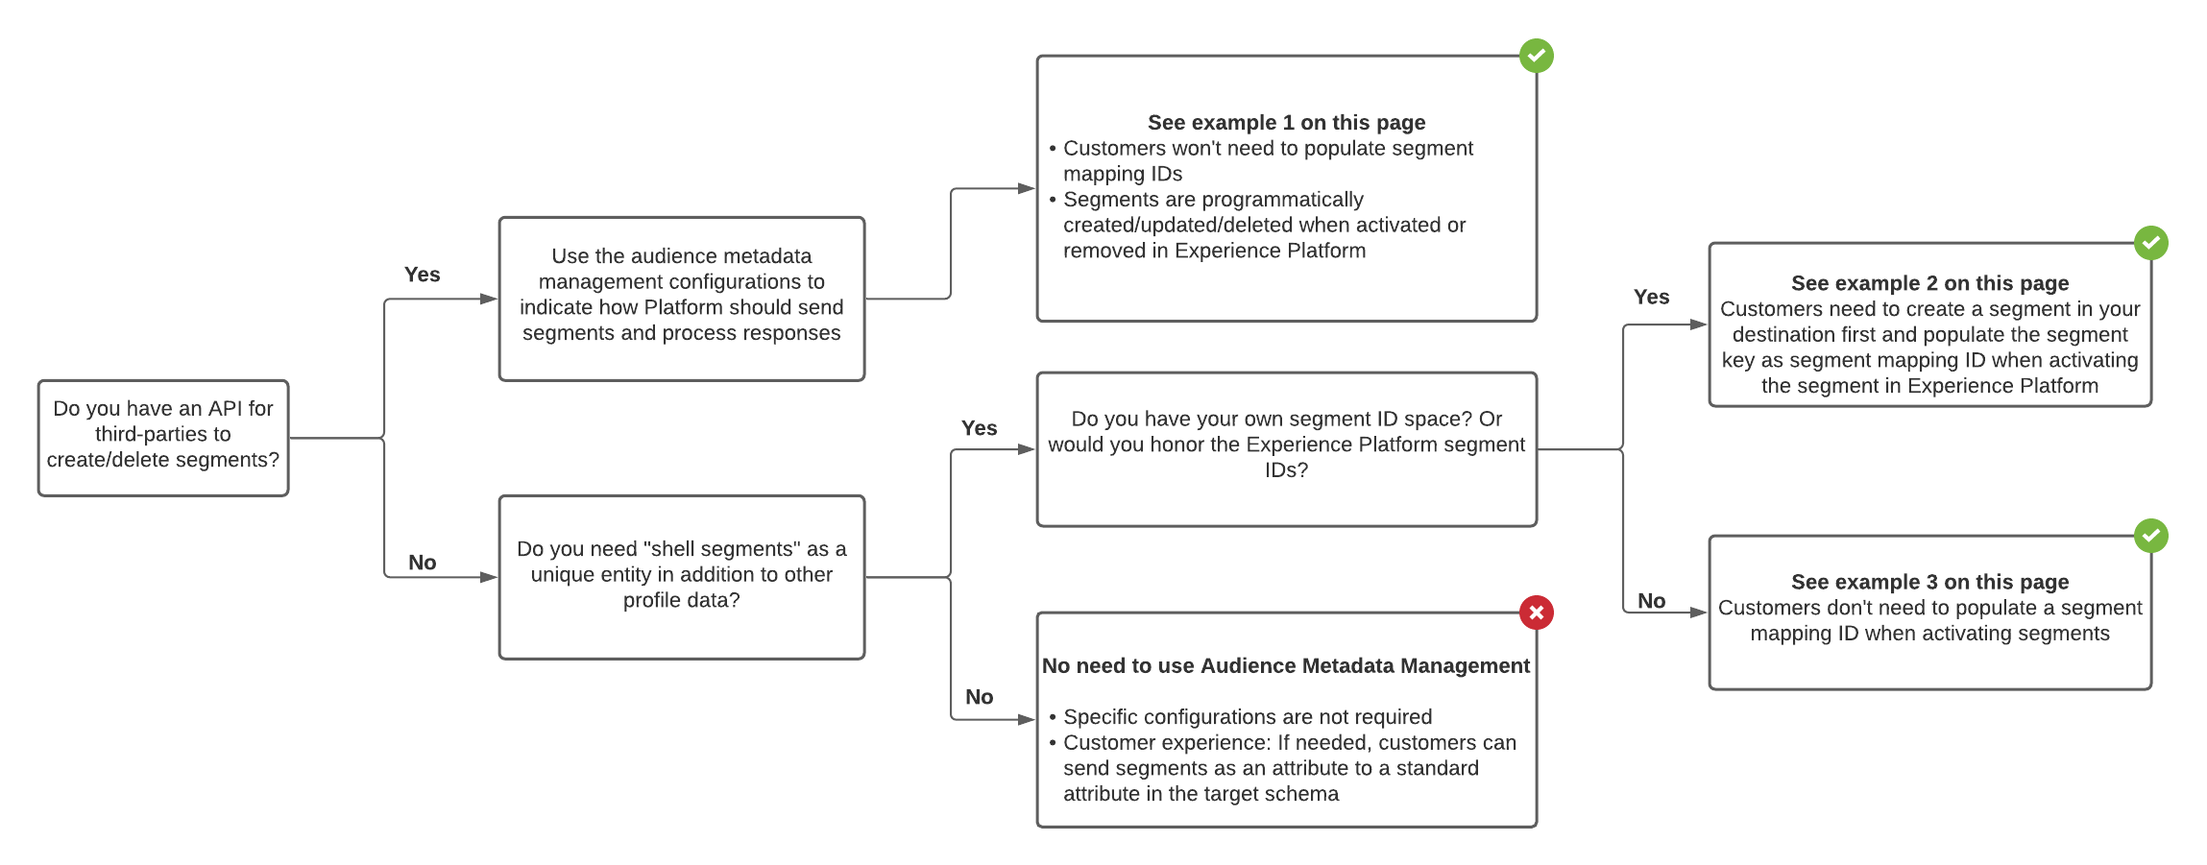
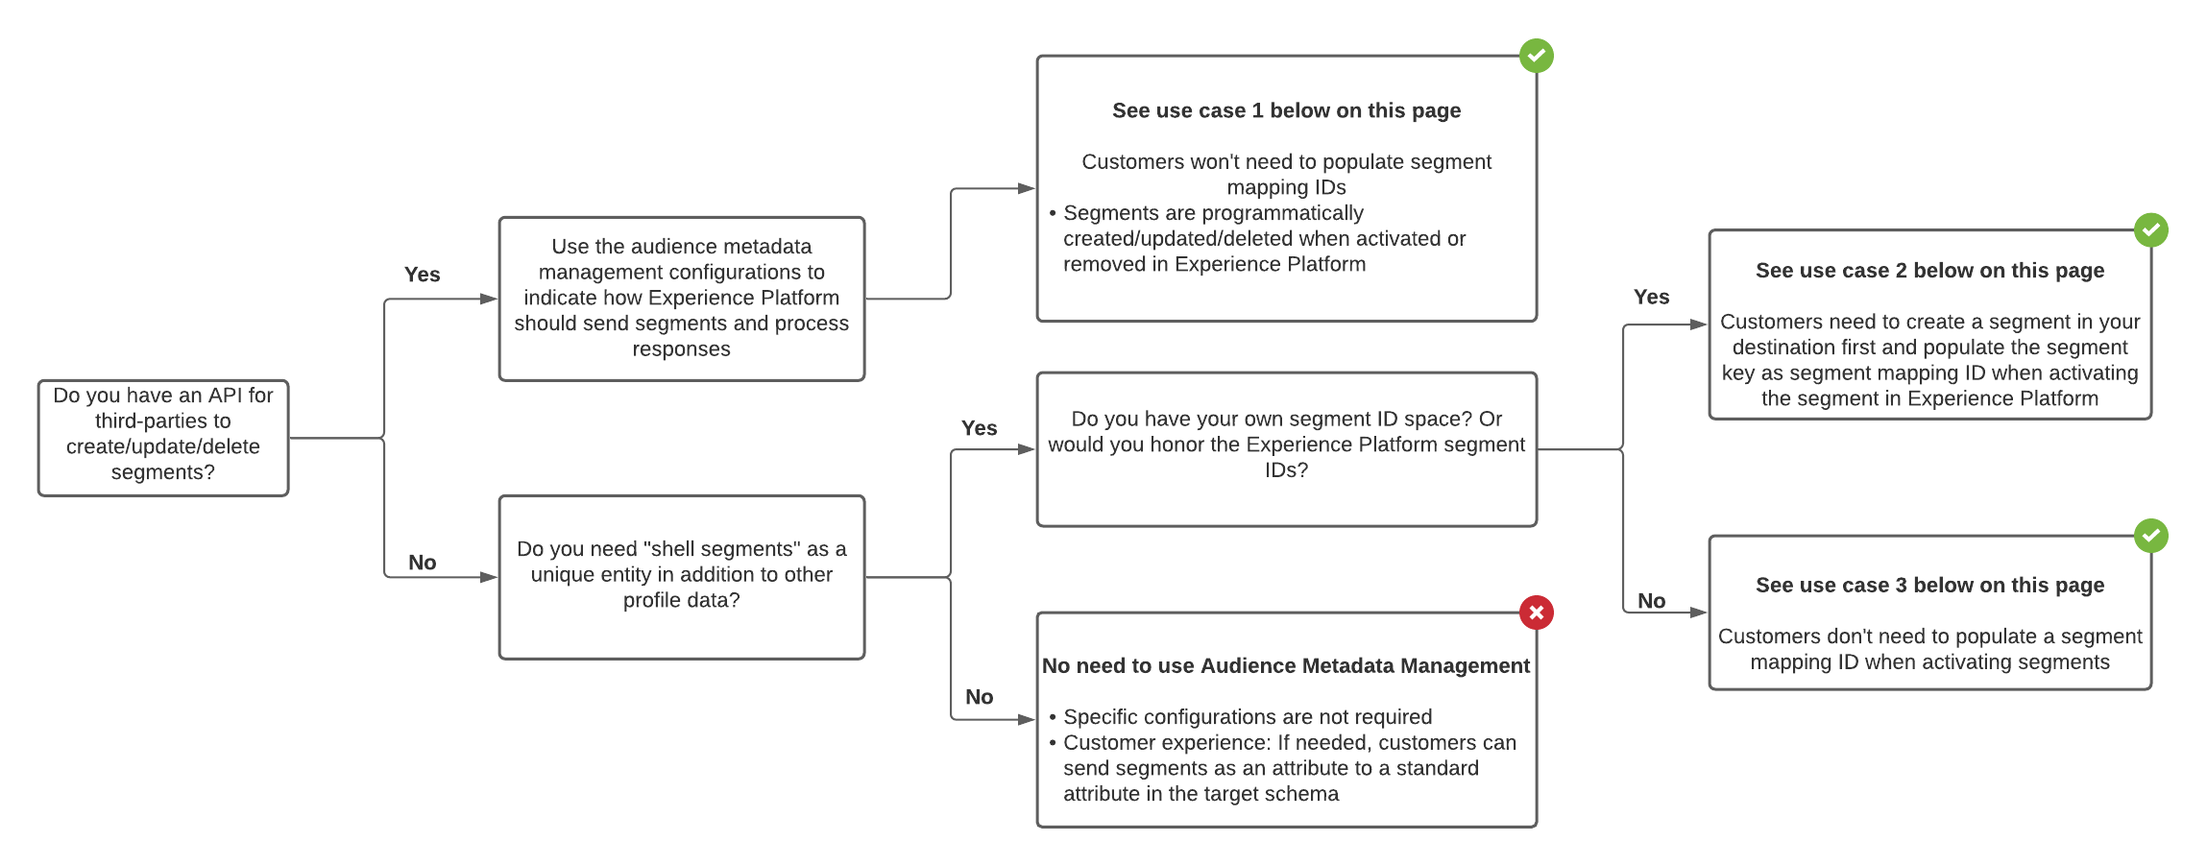
Several updates in collaboration with Engineering

diff --git a/help/audience-metadata-management.md b/help/audience-metadata-management.md
@@ -12,48 +12,170 @@ exl-id: 63ed9a03-eb4d-46c6-85e9-6c1d84acdbad
 
 **API endpoint**: `platform.adobe.io/data/core/activation/authoring/v1/audience-templates` 
 
-Use audience metadata templates to programmatically create, update, or delete audiences (segments) in your destination. Based on the configuration of your API, you can use the audience metadata endpoint to create a template. After you define and test the template, it will be used by Adobe to structure the API calls to your destination.
+Use audience metadata templates to programmatically create, update, or delete audiences in your destination. Adobe provides an extensible audience metadata template, which you can configure based on the specifications of your marketing API. After you define, test, and submit the template, it will be used by Adobe to structure the API calls to your destination.
 
 ## When to use the audience metadata management endpoint {#when-to-use}
 
-Depending on your configuration, you may or may not need to use the audience metadata management API as you configure your destination. Use the decision tree diagram below to understand when to use the audience metadata endpoint.
+Depending on your API configuration, you may or may not need to use the audience metadata management endpoint as you configure your destination in Experience Platform. Use the decision tree diagram below to understand when to use the audience metadata endpoint and how to configure an audience metadata template for your destination.
 
 ![Whiteboard diagram](/help/assets/audience-metadata-decision-tree.png)
 
 ## Use cases supported by audience metadata management {#use-cases}
 
-With audience metadata support in Destination SDK, when you configure your Experience Platform destination, you can give Experience Platform customers one of several options when they map and activate segments to your destination:
+With audience metadata support in Destination SDK, when you configure your Experience Platform destination, you can give Platform users one of several options when they map and activate segments to your destination:
 
+<!--
 1. Require users to manually input segment mapping IDs in a destination instance.
 2. Do not require users to input segment mapping IDs but I will include a template to indicate how my segment mapping ID will be returned in the audience creation API.
 3. Do not require users to input segment mapping IDs. Experience Platform will pass in the segment ID generated by AEP as the segment ID in the destination system upon audience creation.
 4. Do not require users to input segment mapping IDs. Experience Platform will pass in the segment name as the segment ID in the destination system upon audience creation.
+-->
 
+### Use case 1 - You have a 3rd party API and users don't need to input mapping IDs
 
+If you have an API endpoint to create/update/delete shell segments, you can use audience metadata templates to configure Destination SDK to match the specs of your segment create/update/delete endpoint. Experience Platform can programmatically create/update/delete segments and synchronize metadata back to Experience Platform.
 
-### Use case 1 - require users to manually input mapping ID 
+Experience Platform users don't need to manually fill in the segment mapping ID field in the activation workflow to your destination.
 
-If "shell segments" and other metadata needs to be created by partners/customers manually, then customers have to manually fill in the "segment mapping ID" field in the activation workflow to sync the segment metadata between the two systems. 
+### Use case 2 - Users need to create a segment in your destination first and are required to manually input mapping ID
 
-![Input mapping ID](/help/assets/input-mapping-id.png) 
+If "shell segments" and other metadata need to be created by partners or users manually, then users must manually fill in the segment mapping ID field in the activation workflow to sync the segment metadata between your destination and Experience Platform.
 
-### Use case 2 - do not require users to manually input mapping ID
+![Input mapping ID](/help/assets/input-mapping-id.png)
 
-If the shell segment can be created programmatically (pre-requisite: you have an API endpoint to create/update/delete shell segments), you can configure Destination SDK to match the specs of your segment create/update/delete endpoint, and Experience Platform can programmatically create/update/delete segments and synchronize metadata back to Experience Platform.
+### Use case 3 - Your destination honors the Experience Platform segment ID, users don't need to manually input mapping ID  
 
-### Use case 3 - your destination honors the Experience Platform segment ID 
-
-If your destination system honors the Experience Platform segment ID space, you must configure a template. Customers do not have to populate "segment mapping ID" when activating a segment.
+If your destination system honors the Experience Platform segment ID space, you must configure a template. Users do not have to populate segment mapping ID when activating a segment.
 
 ## Generic and extensible audience template {#generic-and-extensible}
 
-To satisfy the use cases listed above, Adobe provides you with a generic template, that can be customized to adjust to your API specifications.
+To support the use cases listed above, Adobe provides you with a generic template that can be customized to adjust to your API specifications.
 
-Select the Generic option when you [create a new audience template](/help/audience-metadata-management.md#create) if your API supports:
+Select the `Generic` option when you [create a new audience template](/help/audience-metadata-management.md#create) if your API supports:
 
 * The HTTP methods: POST, GET, PUT, DELETE, PATCH
-* The authentication types OAuth 1, OAuth 2 with Bearer Token, OAuth 2 with client ID and client secret
+* The authentication types: OAuth 1, OAuth 2 with refresh token, OAuth 2 with bearer token
 * The functions: create audience, update audience, get audience, delete audience, validate credentials 
+
+
+## Template example
+
+This section includes an example of a generic audience template, for your reference, along with descriptions of the main sections of the template.
+
+```
+
+        "instanceId": "a54b7a97-1a3b-40cf-8ae5-4dd635cd9a20",
+        "createdDate": "2021-04-13T19:31:27.201228Z",
+        "lastModifiedDate": "2021-04-21T15:30:16.131235Z",
+        "audience": {
+            "context": "Generic",
+            "name": "{{segment.name}}",
+            "description": "{{segment.description}}",
+            "account": "{{targetConnection.params.accountId}}",
+            "externalAudienceId": "{{segment.alias}}",
+            "metadata": {
+                "customer_file_source": "{{segment.metadata.customer_file_source}}"
+            },
+            "imsOrgId": "{{userContext.imsOrgId}}"
+        },
+        "credential": {
+            "token": "{{baseConnection.auth.params.accessToken}}",
+            "authType": "OAUTH2"
+        },
+        "metadataTemplate": {
+            "create": {
+                "uri": "/{{audience.account}}/customaudiences?fields=name,description,account_id&subtype=CUSTOM",
+                "method": "POST",
+                "headers": {
+                    "Content-Type": "application/x-www-form-urlencoded"
+                },
+                "params": {
+                    "name": "{{audience.name}}",
+                    "description": "{{audience.description}}",
+                    "access_token": "{{credential.token}}",
+                    "customer_file_source": "{{audience.metadata.customer_file_source}}"
+                },
+                "schemaMap": {
+                    "externalAudienceId": "{{response.id}}"
+                },
+                "errorSchemaMap": {
+                    "message": "error.message"
+                }
+            },
+            "update": {
+                "uri": "/{{audience.externalAudienceId}}",
+                "method": "POST",
+                "headers": {
+                    "Content-Type": "application/x-www-form-urlencoded"
+                },
+                "params": {
+                    "name": "{{audience.name}}",
+                    "fields": "name,description,account_id",
+                    "description": "{{audience.description}}",
+                    "access_token": "{{credential.token}}",
+                    "customAudienceId": "{{audience.externalAudienceId}}",
+                    "customer_file_source": "{{audience.metadata.customer_file_source}}"
+                },
+                "schemaMap": {
+                    "externalAudienceId": "{{response.id}}"
+                },
+                "errorSchemaMap": {
+                    "message": "error.message"
+                }
+            },
+            "delete": {
+                "uri": "/{{audience.externalAudienceId}}",
+                "method": "DELETE",
+                "headers": {
+                    "Content-Type": "application/x-www-form-urlencoded"
+                },
+                "params": {
+                    "fields": "name,description,account_id",
+                    "access_token": "{{credential.token}}",
+                    "customAudienceId": "{{audience.externalAudienceId}}"
+                },
+                "schemaMap": {
+                    "externalAudienceId": "{{response.id}}"
+                },
+                "errorSchemaMap": {
+                    "message": "error.message"
+                }
+            },
+            "validate": {
+                "uri": "/me/permissions?access_token={{credential.token}}",
+                "method": "GET",
+                "headers": {
+                    "Content-Type": "application/x-www-form-urlencoded"
+                },
+                "schemaMap": {
+                    "Id": "{{response.id}}"
+                },
+                "errorSchemaMap": {
+                    "message": "error.message"
+                }
+            },
+            "host": "https://api.moviestar.com/v10.0",
+            "name": "Moviestar fictional destination template"
+        },
+        "validations": [
+            {
+                "field": "{{audience.account}}",
+                "regex": "^moviestar_[0-9]+$"
+            }
+        ]
+    },
+
+```
+
+Template section | Description |
+---------|----------|
+``audience`` | Includes all metadata from Experience Platform needed to create an audience in the destination platform. |
+``credential`` | Specifies the authorization type for your destination. |
+``metadataTemplate`` | Includes basic information for HTTP calls to your destination, to create, update, validate, and delete audiences. |
+``validations`` | Runs validations for e.g. account number before making a call to the partner API.|
+
+Descriptions of all parameters in the template are further below in this page. 
+
 
 ## Getting started with audience templates API operations
 
@@ -193,14 +315,14 @@ curl -X POST https://platform.adobe.io/data/core/ups/export/jobs \
 
 | Property | Type | Description |
 | -------- | ----------- | ----------- |
-| `audience.context` | String | Use "context": "GENERIC" if your API satisfies the requirements in the [generic and extensible](/help/audience-metadata-management.md#generic-and-extensible) section. |
+| `audience.context` | String | Use "context": "Generic" if your API satisfies the requirements in the [generic and extensible](/help/audience-metadata-management.md#generic-and-extensible) section. |
 | `audience.description` | String | Use `"{{segment.description}}"` to pass the description of the Experience Platform segment to your API endpoint. | 
 | `audience.name` | String | Use `"{{segment.name}}"` to pass the name of the Experience Platform segment to your API endpoint. | 
 | `audience.sid` | String | Use `"{{segment.sid}}"` to pass the ID of the Experience Platform segment to your API endpoint. | 
 | `audience.account` | String | Use `"{{audience.account}}"` to pass the user's account ID to your API endpoint.| 
 | `audience.accountType` | String | If your destination supports several types of customer accounts, you can specify that here. | 
-| `audience.externalAudienceId` | String | The segment or audience alias in your destination. | 
-| `audience.imsOrgId` | String | The customer's Organization ID.  | 
+| `audience.externalAudienceId` | String | The segment or audience alias in your destination. Use `{{segment.alias}}`. | 
+| `audience.imsOrgId` | String | The customer's Organization ID. Use `{{userContext.imsOrgId}}`.  | 
 | `audience.metadata.additionalProp1` | String | You can define any number of additional fields, specific to your destination. <br> For example, based on their [Marketing API documentation](https://developers.facebook.com/docs/marketing-api/audiences/guides/custom-audiences/), Facebook would add the field `"customer_file_source": "{{segment.metadata.customer_file_source}}"` to their destination configuration. | 
 | `credential.clientId` | String |  |
 | `credential.clientSecret` | String | | 
@@ -211,38 +333,38 @@ curl -X POST https://platform.adobe.io/data/core/ups/export/jobs \
 | `credential.clientCustomerId` | String | | 
 | `credential.authType` | String | | 
 | `credential.metadata.additionalProp1` | String | | 
-| `metadataTemplate.name` | String | The name of the audience metadata template for your destination. |
+| `metadataTemplate.name` | String | The name of the audience metadata template for your destination. This name will appear in any partner-specific error message |
 | `metadataTemplate.host` | String | The URL of the API on your side. Two industry examples are: `https://ads-api.twitter.com/` and `https://graph.facebook.com/v10.0`. | 
-| `metadataTemplate.create.uri` | String | The endpoint of your API, which is used for creating audiences/segments in your platform. | 
-| `metadataTemplate.create.method` | String | The method used on your endpoint to programmatically create the segment/audience in your destination. Examples: `POST`, `PUT` | 
-| `metadataTemplate.create.headers.additionalProp1` | String | Specifies any headers that should be added to the call to your API. For example, `"Content-Type": "application/x-www-form-urlencoded"` | 
-| `metadataTemplate.create.params.additionalProp1` | String | Specifies any parameters that should be added to the body of the call to your API. | 
+| `metadataTemplate.create.uri` | String | The endpoint of your API, which is used for creating audiences/segments in your platform. For example: `/v2/audiences/{{audience.id}}` | 
+| `metadataTemplate.create.method` | String | The method used on your endpoint to programmatically create the segment/audience in your destination. For example: `POST`, `PUT` | 
+| `metadataTemplate.create.headers.additionalProp1` | String | Specifies any HTTP headers that should be added to the call to your API. For example, `"Content-Type": "application/x-www-form-urlencoded"` | 
+| `metadataTemplate.create.params.additionalProp1` | String | Specifies any query parameters that should be appended to the call to your API. | 
 | `metadataTemplate.create.body` | String | Specifies the content of the message body that should be sent to your API. |
-| `metadataTemplate.create.schemaMap.additionalProp1` | String |  | 
-| `metadataTemplate.create.errorSchemaMap.additionalProp1` | String | | 
-| `metadataTemplate.update.uri` | String | | 
-| `metadataTemplate.update.method` | String | The method used on your endpoint to programmatically update the segment/audience in your destination. | 
-| `metadataTemplate.update.headers.additionalProp1` | String | | 
-| `metadataTemplate.update.params.additionalProp1` | String | | 
-| `metadataTemplate.update.body` | String | | 
-| `metadataTemplate.update.schemaMap.additionalProp1` | String | | 
-| `metadataTemplate.update.errorSchemaMap.additionalProp1` | String | | 
-| `metadataTemplate.delete.uri` | String | | 
-| `metadataTemplate.delete.method` | String | The method used on your endpoint to programmatically delete the segment/audience in your destination. | 
+| `metadataTemplate.create.schemaMap.additionalProp1` | String | Returns the audience ID from your destination.  | 
+| `metadataTemplate.create.errorSchemaMap.additionalProp1` | String | Parses any error messages returned on API call responses from your destination. These error messages will be surfaced to users in the Experience Platform user interface. | 
+| `metadataTemplate.update.uri` | String | The endpoint of your API, which is used for updating audiences/segments in your platform. For example: `/v2/audiences/{{audience.id}}` | 
+| `metadataTemplate.update.method` | String | The method used on your endpoint to programmatically update the segment/audience in your destination. For example: `POST`, `PUT` | 
+| `metadataTemplate.update.headers.additionalProp1` | String | Specifies any HTTP headers that should be added to the call to your API. For example, `"Content-Type": "application/x-www-form-urlencoded"`  | 
+| `metadataTemplate.update.params.additionalProp1` | String | Specifies any query parameters that should be appended to the call to your API. | 
+| `metadataTemplate.update.body` | String | Specifies the content of the message body that should be sent to your API. | 
+| `metadataTemplate.update.schemaMap.additionalProp1` | String | *Optional for update operations.* Returns the audience ID from your destination. | 
+| `metadataTemplate.update.errorSchemaMap.additionalProp1` | String | Parses any error messages returned on API call responses from your destination. These error messages will be surfaced to users in the Experience Platform user interface. | 
+| `metadataTemplate.delete.uri` | String | The endpoint of your API, which is used for removing audiences/segments in your platform. For example: `/v2/audiences/{{audience.id}}` | 
+| `metadataTemplate.delete.method` | String | The method used on your endpoint to programmatically delete the segment/audience in your destination. For example: `DELETE` | 
 | `metadataTemplate.delete.headers.additionalProp1` | String | | 
 | `metadataTemplate.delete.params.additionalProp1` | String | | 
 | `metadataTemplate.delete.body` | String | | 
 | `metadataTemplate.delete.schemaMap.additionalProp1` | String | | 
 | `metadataTemplate.delete.errorSchemaMap.additionalProp1` | String | | 
 | `metadataTemplate.validate.uri` | String | | 
-| `metadataTemplate.validate.method` | String | The method used on your endpoint to programmatically validate the segment/audience in your destination. | 
+| `metadataTemplate.validate.method` | String | The method used on your endpoint to programmatically validate the segment/audience in your destination. For example: `GET` | 
 | `metadataTemplate.validate.headers.additionalProp1` | String | | 
 | `metadataTemplate.validate.params.additionalProp1` | String | | 
 | `metadataTemplate.validate.body` | String | | 
 | `metadataTemplate.validate.schemaMap.additionalProp1` | String | | 
 | `metadataTemplate.validate.errorSchemaMap.additionalProp1` | String | | 
-| `validations.field` | String | | 
-| `validations.regex` | String | | 
+| `validations.field` | String | Indicates if validations should be run for any fields before API calls are made to your destination. For example, you can use `{{validations.accountId}}` to validate the user's account ID. | 
+| `validations.regex` | String | Indicates how the field should be structured in order for the validation to pass.  | 
 
 
 
@@ -263,7 +385,7 @@ PUT /authoring/v1/audience-templates/{INSTANCE_ID}
 
 | Parameter | Description |
 | -------- | ----------- |
-| {INSTANCE_ID} | The ID of the audience metadata template you want to update. |
+| {INSTANCE_ID} | The ID of the audience metadata template that you want to update. |
 
 **Request**
 
@@ -577,7 +699,7 @@ A successful response returns HTTP status 200 with detailed information about th
                 "message": "errors[0].message"
             }
         },
-        "host": "https://ads-api.twitter.com/8"
+        "host": "https://ads-api.moviestar.com/8"
     }
 }
 ```
@@ -617,99 +739,6 @@ A successful response returns HTTP status 204 with the following message:
   "status": true,
   "message": ""
 }
-```
-
-## Template examples
-
-This section includes some example templates, for your reference. They all use a fictional destination, called Moviestar.
-
-```
-
-{
-  "name": "Moviestar",
-  "host": "https://api.moviestar.com",
-  "get": {
-    "uri": "/v2/segments/{{audience.id}}",
-    "method": "GET",
-    "headers": {
-      "Authorization": "Bearer {{credential.token}}"
-    },
-    "schemaMap": {
-      "externalAudienceId": "{{response.id}}",
-      "name": "{{response.name}}",
-      "account": "{{response.account}}"
-    }
-  },
-  "create": {
-    "uri": "/v2/segments",
-    "method": "POST",
-    "headers": {
-      "Authorization": "Bearer {{credential.token}}",
-      "Content-Type": "application/json"
-    },
-    "body": {
-      "name": "{{audience.name}}",
-      "sourcePlatform": "ADOBE",
-      "account": "{{audience.account}}",
-      "accessPolicy": "PRIVATE",
-      "type": "USER",
-      "destinations": [{
-        "destination": "Moviestar"
-      }]
-    },
-    "schemaMap": {
-      "externalAudienceId": "{{headers.x-moviestar-id}}"
-    },
-    "errorSchemaMap": {
-      "message": "message"
-    }
-  },
-  "update": {
-    "uri": "/v2/segments/{{audience.externalAudienceId}}",
-    "method": "POST",
-    "headers": {
-      "Authorization": "Bearer {{credential.token}}",
-      "Content-Type": "application/json"
-    },
-    "body": {
-      "patch": {
-        "$set": {
-          "name": "{{audience.name}}"
-        }
-      }
-    },
-    "errorSchemaMap": {
-      "message": "message"
-    }
-  },
-  "delete": {
-    "uri": "/v2/segments/{{audience.externalAudienceId}}",
-    "method": "DELETE",
-    "headers": {
-      "Authorization": "Bearer {{credential.token}}",
-      "Content-Type": "application/json"
-    ,
-    "errorSchemaMap": {
-      "message": "message"
-    }
-  },
-  "validate": {
-    "uri": "/v2/validate",
-    "method": "GET",
-    "headers": {
-      "Authorization": "Bearer {{credential.token}}",
-      "Content-Type": "application/json"
-    },
-    "schemaMap": {
-      "Id": "{{response.id}}"
-    },
-    "errorSchemaMap": {
-      "message": "message"
-    }
-  }
-  }
-}
-
 ```
 
 ## Next steps
